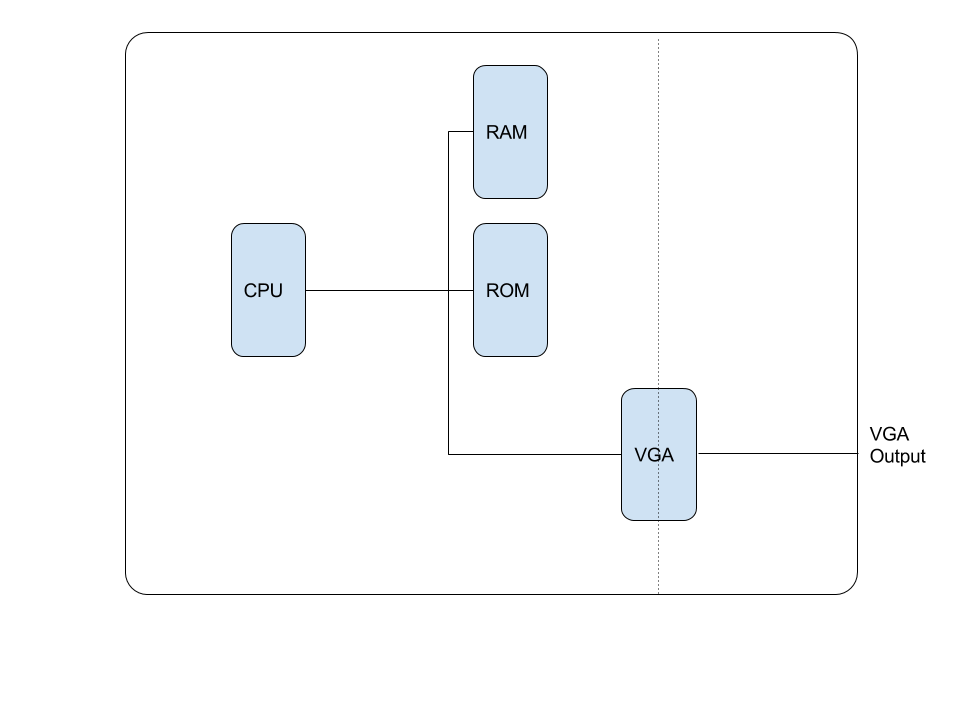
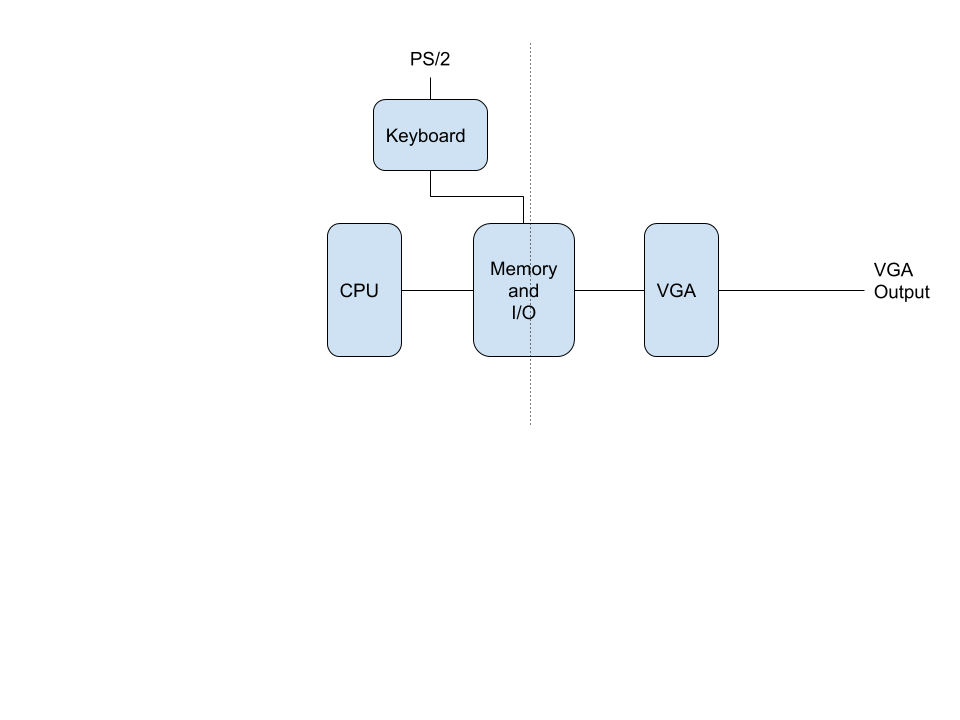
Cleanup.

diff --git a/c64/README.md b/c64/README.md
@@ -18,8 +18,9 @@ Well, even though I'm a senior FPGA developer, I've never done anything like
 this before. Thus, this is a learning projekt for me.  It is simple enough to
 be do-able, and yet useful enough to be interesting.
 
-I've chosen the 6502 because I used it extensively, when I had a C-64 several decades ago.
-There is excellent material available - see secion below on resources.
+I've chosen the 6502 because I used it extensively, when I had a C-64 several
+decades ago.  There is excellent material available - see secion below on
+resources.
 
 
 ## Design
@@ -27,6 +28,7 @@ The computer consists of the following parts:
 * 6502 CPU
 * Memory (RAM and ROM)
 * VGA driver
+* Keyboard interface
 
 The following picture shows the block diagram
 
@@ -35,6 +37,11 @@ The following picture shows the block diagram
 Note that the dotted line indicates separation between two asynchronous clock
 domains. The VGA runs at 25 MHz  (determined by the video mode - 640x480 @ 60
 Hz), whereas the CPU runs at a different frequency.
+
+The only part with multiple clock domains is isolated to be the memory. This is
+a great simplification, because the FPGA supports True Dual Port memory. What
+this means is that the VHDL designer clock crossing is almost entirely handled
+by the tools (Vivado and ISE).
 
 ### The 6502 processor
 This is an 8-bit processor with 16-bit address bus.  Memory is accessed in
@@ -73,7 +80,6 @@ The following block diagram shows the architecture of the VGA module.
 
 ![VGA Module](img/VGA_Module.png "")
 
-Notice again the dotted line separating the two clock domains.
 
 
 
